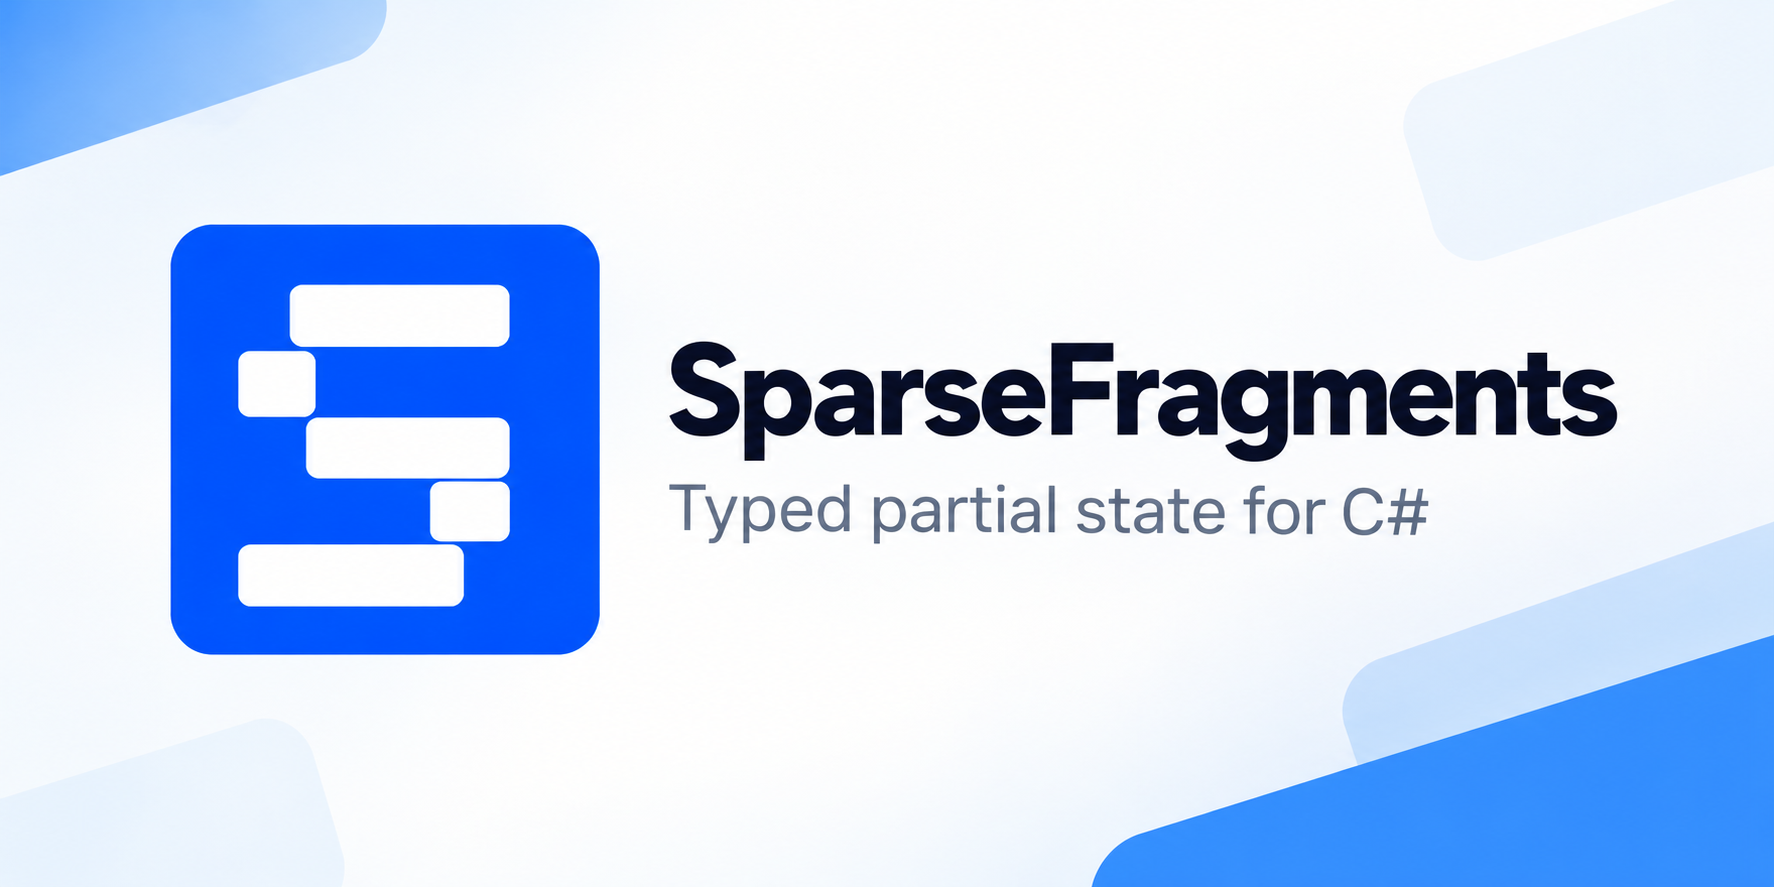
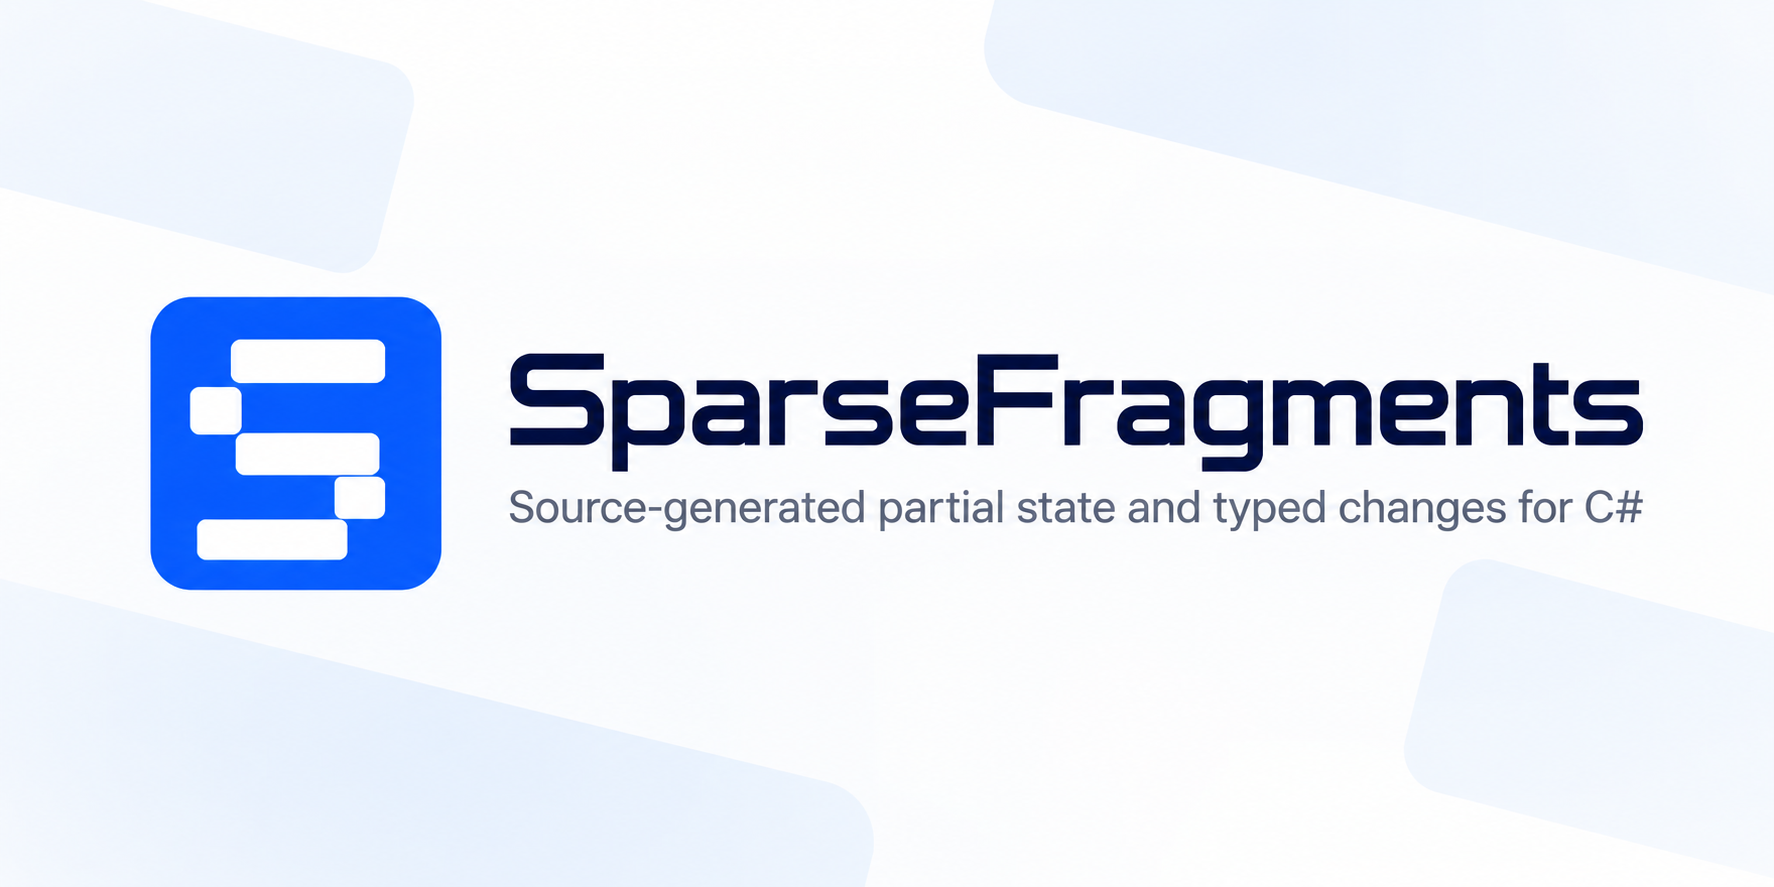
Update hero image in README

Changed region(s): [[0.062, 0.2435, 0.9301, 0.761], [0.6201, 0.5784, 1.0, 1.0], [0.0, 0.0, 0.217, 0.2131]]

diff --git a/README.md b/README.md
@@ -1,4 +1,4 @@
-<img src="./assets/hero.png" />
+<img src="./assets/hero2.png" />
 
 # SparseFragments
 
